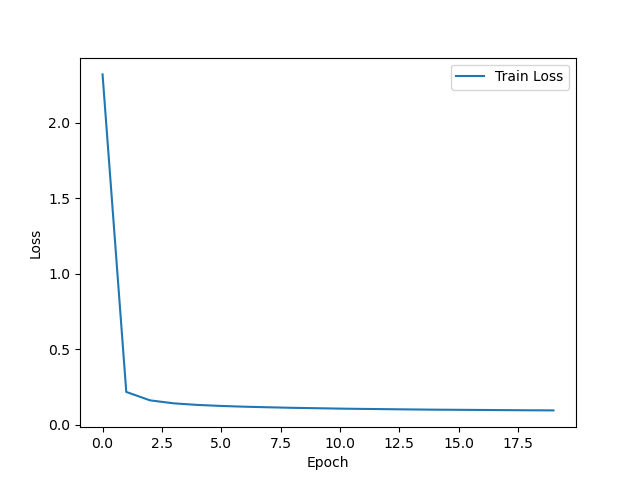
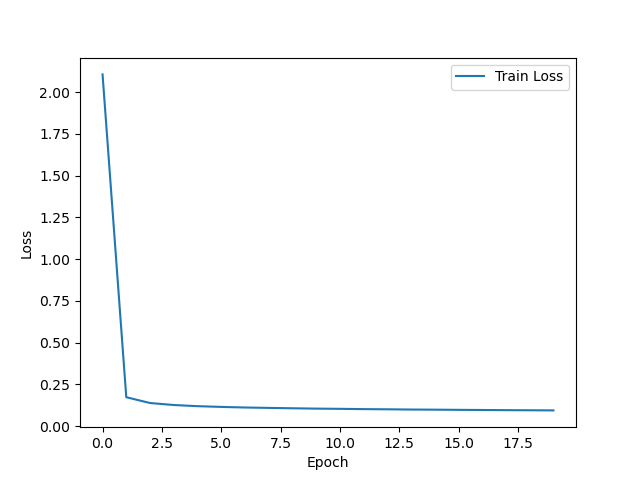
move duplicate dropout

diff --git a/Lab2/part2/train.py b/Lab2/part2/train.py
@@ -35,6 +35,11 @@ class Trainer:
         best_val_loss = float('inf')
         train_loss_all = []
         val_loss_all = []
+        if not os.path.exists("results"):
+            os.makedirs("results")
+        # 清空文件
+        with open("results/train_loss.txt", "w"):
+            pass
         for epoch in range(self.epochs):
             train_loss = self._train_single_epoch()
             val_loss = self._val_single_epoch()
@@ -42,8 +47,6 @@ class Trainer:
             val_loss_all.append(val_loss)
 
             print(f"Epoch {epoch + 1}/{self.epochs}: Train Loss: {train_loss:.4f}, Val Loss: {val_loss:.4f}")
-            if not os.path.exists("results"):
-                os.makedirs("results")
             with open("results/train_loss.txt", "a") as f:
                 f.write(f"Train Loss: {train_loss:.4f}, Val Loss: {val_loss:.4f}\n")
 
@@ -119,5 +122,5 @@ def test(args, model, test_dataloader, criterion):
     print(f"Test Loss: {test_loss:.4f}")
     if not os.path.exists("results"):
         os.makedirs("results")
-    with open("results/test_loss.txt", "a") as f:
+    with open("results/test_loss.txt", "w") as f:
         f.write(f"Test Loss: {test_loss:.4f}\n")

diff --git a/Lab2/part2/main.py b/Lab2/part2/main.py
@@ -46,7 +46,7 @@ def main():
         n_heads=args.n_heads,
         num_experts=args.num_experts,
         active_experts=args.active_experts,
-        dropout=0.1
+        dropout=args.dropout
     ).to(args.device)
 
     # 损失函数和优化器
@@ -112,7 +112,7 @@ def generate_text(input_text: str, max_len: int = 100):
 
 
 if __name__ == '__main__':
-    # main()
+    main()
     generate_text("To be or not to be, that is the question:", max_len=100)
     generate_text("I could pick my lance", max_len=100)
 

diff --git a/Lab2/part2/args.py b/Lab2/part2/args.py
@@ -15,6 +15,7 @@ def parse_args():
     parser.add_argument('--active_experts', type=int, default=2, help='Number of active experts in SparseMoE.')
     parser.add_argument('--epochs', type=int, default=20, help='Number of training epochs.')
     parser.add_argument('--lr', type=float, default=1e-3, help='Learning rate.')
+    parser.add_argument('--dropout', type=float, default=0.1, help='Dropout rate.')
     return parser.parse_args()
 
 

diff --git a/Lab2/part2/TransformerDecoderLayer.py b/Lab2/part2/TransformerDecoderLayer.py
@@ -54,7 +54,6 @@ class MultiHeadAttention(nn.Module):
             for attention_layer in self.multi_head_attention_layers
         ], dim=-1)
         output = self.out_linear(attention_outputs)
-        output = self.dropout(output)
         return output
 
 
